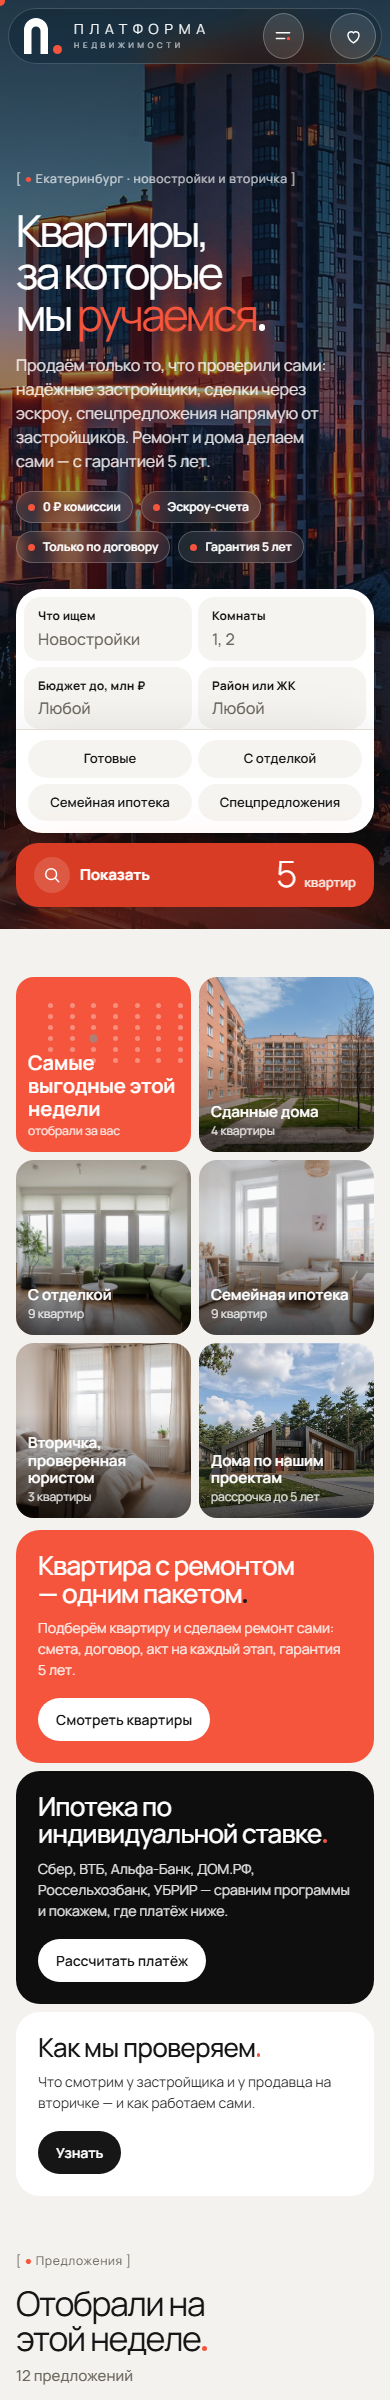
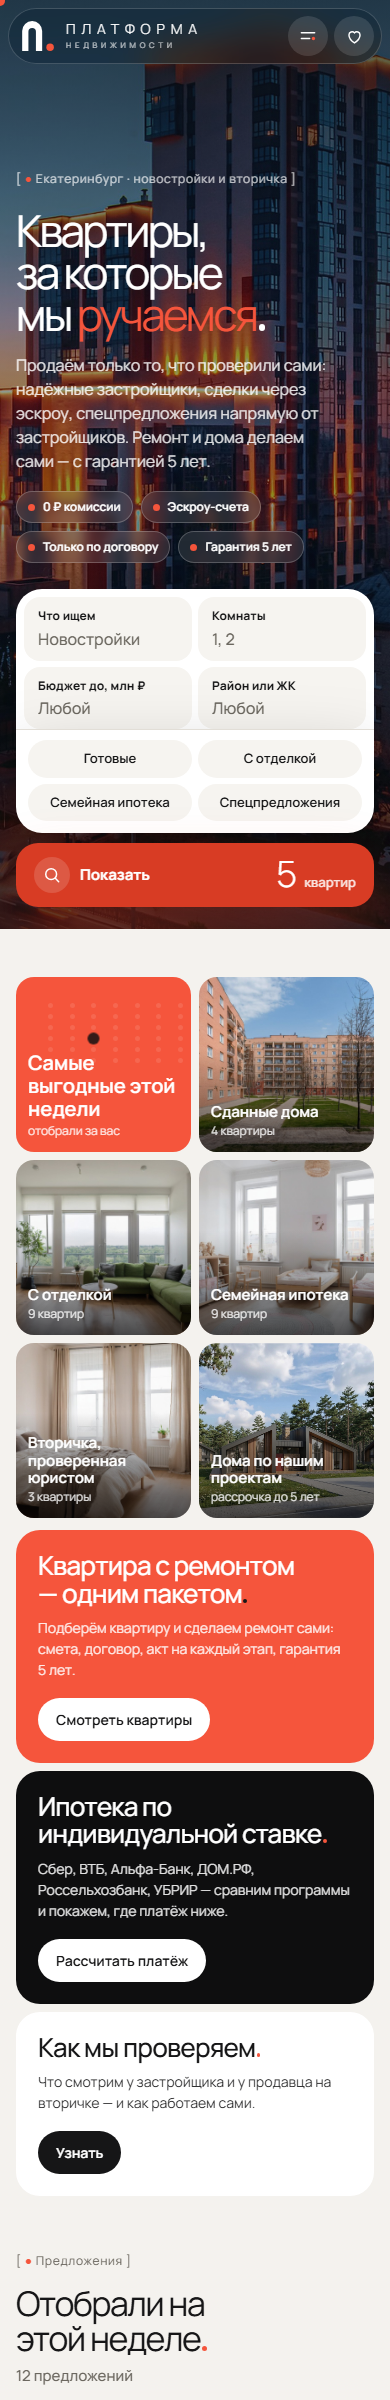
Мобильная шапка: кнопки ровно внутри капсулы; сброс кэша в просмотрщике

diff --git a/08_Сайт_пример/mobile.html b/08_Сайт_пример/mobile.html
@@ -46,7 +46,7 @@ h1{font:300 clamp(38px,3.6vw,58px)/1.02 Manrope;letter-spacing:-.045em;margin:40
     <h1>Мобильная версия<i></i></h1>
     <p class="lead">Живой сайт в экране iPhone 390×844 — листайте колесом мыши, нажимайте кнопки, открывайте меню, чат и карточки.</p>
     <div class="k">Страница</div>
-    <div class="seg" role="group" aria-label="Страница"><button type="button" aria-pressed="true" data-p="index.html">Сайт</button><button type="button" aria-pressed="false" data-p="kabinet.html">Личный кабинет</button></div>
+    <div class="seg" role="group" aria-label="Страница"><button type="button" aria-pressed="true" data-p="index.html?v=37">Сайт</button><button type="button" aria-pressed="false" data-p="kabinet.html">Личный кабинет</button></div>
     <div class="k" id="jk">Перейти к разделу</div>
     <div class="jump" id="jump">
       <button type="button" data-s="search">Первый экран</button><button type="button" data-s="list">Квартиры</button><button type="button" data-s="how">Отбор</button><button type="button" data-s="calc">Ипотека</button>
@@ -55,7 +55,7 @@ h1{font:300 clamp(38px,3.6vw,58px)/1.02 Manrope;letter-spacing:-.045em;margin:40
     <div class="links"><a href="index.html">Открыть сайт целиком</a><a href="kabinet.html">Кабинет отдельно</a></div>
     <p class="qr">На телефоне откройте ссылку на сайт напрямую — эта страница для просмотра с компьютера.</p>
   </div>
-  <div class="phone-col"><div class="ph-wrap"><div class="phone"><div class="screen"><div class="island"></div><div class="sbar" id="sbar"><span id="clk">9:41</span><span class="r"><svg viewBox="0 0 18 12"><rect x="0" y="8" width="3" height="4" rx="1"/><rect x="5" y="5" width="3" height="7" rx="1"/><rect x="10" y="2" width="3" height="10" rx="1"/><rect x="15" y="0" width="3" height="12" rx="1"/></svg><svg viewBox="0 0 16 12"><path d="M8 2.5a9 9 0 0 1 6.4 2.6l1.1-1.2A10.6 10.6 0 0 0 8 1 10.6 10.6 0 0 0 .5 3.9l1.1 1.2A9 9 0 0 1 8 2.5zm0 3.5a5.5 5.5 0 0 1 3.9 1.6l1.1-1.1A7 7 0 0 0 8 4.5a7 7 0 0 0-5 2l1.1 1.1A5.5 5.5 0 0 1 8 6zm0 3.5a2 2 0 0 1 1.4.6L8 11.6 6.6 10.1A2 2 0 0 1 8 9.5z"/></svg><svg viewBox="0 0 27 12"><rect x=".5" y=".5" width="22" height="11" rx="3" fill="none" stroke="currentColor" opacity=".5"/><rect x="2" y="2" width="17" height="8" rx="1.8"/><rect x="24" y="4" width="2" height="4" rx="1" opacity=".5"/></svg></span></div><iframe id="fr" src="index.html" title="Мобильная версия сайта"></iframe></div></div></div></div>
+  <div class="phone-col"><div class="ph-wrap"><div class="phone"><div class="screen"><div class="island"></div><div class="sbar" id="sbar"><span id="clk">9:41</span><span class="r"><svg viewBox="0 0 18 12"><rect x="0" y="8" width="3" height="4" rx="1"/><rect x="5" y="5" width="3" height="7" rx="1"/><rect x="10" y="2" width="3" height="10" rx="1"/><rect x="15" y="0" width="3" height="12" rx="1"/></svg><svg viewBox="0 0 16 12"><path d="M8 2.5a9 9 0 0 1 6.4 2.6l1.1-1.2A10.6 10.6 0 0 0 8 1 10.6 10.6 0 0 0 .5 3.9l1.1 1.2A9 9 0 0 1 8 2.5zm0 3.5a5.5 5.5 0 0 1 3.9 1.6l1.1-1.1A7 7 0 0 0 8 4.5a7 7 0 0 0-5 2l1.1 1.1A5.5 5.5 0 0 1 8 6zm0 3.5a2 2 0 0 1 1.4.6L8 11.6 6.6 10.1A2 2 0 0 1 8 9.5z"/></svg><svg viewBox="0 0 27 12"><rect x=".5" y=".5" width="22" height="11" rx="3" fill="none" stroke="currentColor" opacity=".5"/><rect x="2" y="2" width="17" height="8" rx="1.8"/><rect x="24" y="4" width="2" height="4" rx="1" opacity=".5"/></svg></span></div><iframe id="fr" src="index.html?v=37" title="Мобильная версия сайта"></iframe></div></div></div></div>
 </div>
 <script>
 const fr = document.getElementById('fr');
@@ -70,7 +70,7 @@ setInterval(() => { try { const w = fr.contentWindow, d = fr.contentDocument, si
   document.getElementById('sbar').classList.toggle('lt', !dark); } catch (e) {} }, 300);
 document.querySelectorAll('.seg button').forEach(b => b.addEventListener('click', () => {
   document.querySelectorAll('.seg button').forEach(x => x.setAttribute('aria-pressed', x === b));
-  fr.src = b.dataset.p; const site = b.dataset.p === 'index.html';
+  fr.src = b.dataset.p; const site = /index/.test(b.dataset.p);
   document.getElementById('jump').hidden = !site; document.getElementById('jk').hidden = !site;
 }));
 document.querySelectorAll('#jump button').forEach(b => b.addEventListener('click', () => {

diff --git a/08_Сайт_пример/index.html b/08_Сайт_пример/index.html
@@ -1079,6 +1079,7 @@ html.mn-lock,html.mn-lock body{overflow:hidden}
 @media(max-width:800px){.hero .sbox3 .qfl{display:none}.hero .sbox3 .qf{display:grid;grid-template-columns:1fr 1fr;overflow:visible;margin:0;padding:0;gap:6px;width:100%}.hero .sbox3 .qf button{flex:1 1 auto;text-align:center;padding:8px 10px}}
 @media(max-width:800px){.way{flex-direction:column;align-items:stretch;gap:0;padding:20px 20px 18px}.way .stp{white-space:normal;font-size:15px;gap:14px;padding:2px 0}.way .stp i{width:12px;height:12px;flex:none}.way .ln{display:block!important;flex:none;width:2px;min-width:0;height:18px;margin:4px 0 4px 5px;background:repeating-linear-gradient(180deg,#56545A 0 4px,transparent 4px 8px)}.way .ln::after{transform:scaleY(0);transform-origin:top;width:2px;height:100%}.way .ln.fill::after{transform:scaleY(1)}.way .btn{margin:16px 0 0!important;width:100%}}
 a[href^="tel:"]{white-space:nowrap}
+/* v37 head */@media(max-width:800px){header .hd{height:56px;padding:0 8px 0 14px!important;gap:6px}header .hd .logo svg{width:32px;height:30px}#mnBtn,.hb .hb-ic{width:40px!important;height:40px!important;border:0!important;border-radius:50%;background:#16161714!important;color:var(--ink);box-shadow:none!important}header.ontop #mnBtn,header.ontop .hb .hb-ic{background:#ffffff1f!important;color:#fff}.hb{gap:6px}.hb .hb-ic .cnt{top:-2px;right:-2px;box-shadow:0 0 0 2px #F4F2EE}header.ontop .hb .hb-ic .cnt{box-shadow:none}}
 @media(prefers-reduced-motion:reduce){*{transition:none!important;scroll-behavior:auto!important}}
 </style>
 </head>

diff --git a/tools/patches/site_v37_mobfit.py b/tools/patches/site_v37_mobfit.py
@@ -40,3 +40,16 @@ if 'a[href^="tel:"]{white-space:nowrap}' not in k:
     k = k.replace('@media(prefers-reduced-motion:reduce)', 'a[href^="tel:"]{white-space:nowrap}\n@media(prefers-reduced-motion:reduce)', 1)
     open(P + 'kabinet.html', 'w', encoding='utf8').write(k)
 print('tel ok')
+
+# шапка телефона: кнопки ровно внутри капсулы
+s = open(P + 'index.html', encoding='utf8').read()
+if '/* v37 head */' not in s:
+    s = s.replace('@media(prefers-reduced-motion:reduce){*{transition',
+        '/* v37 head */@media(max-width:800px){header .hd{height:56px;padding:0 8px 0 14px!important;gap:6px}'
+        'header .hd .logo svg{width:32px;height:30px}'
+        '#mnBtn,.hb .hb-ic{width:40px!important;height:40px!important;border:0!important;border-radius:50%;background:#16161714!important;color:var(--ink);box-shadow:none!important}'
+        'header.ontop #mnBtn,header.ontop .hb .hb-ic{background:#ffffff1f!important;color:#fff}'
+        '.hb{gap:6px}.hb .hb-ic .cnt{top:-2px;right:-2px;box-shadow:0 0 0 2px #F4F2EE}header.ontop .hb .hb-ic .cnt{box-shadow:none}}\n'
+        '@media(prefers-reduced-motion:reduce){*{transition', 1)
+open(P + 'index.html', 'w', encoding='utf8').write(s)
+print('head ok')
